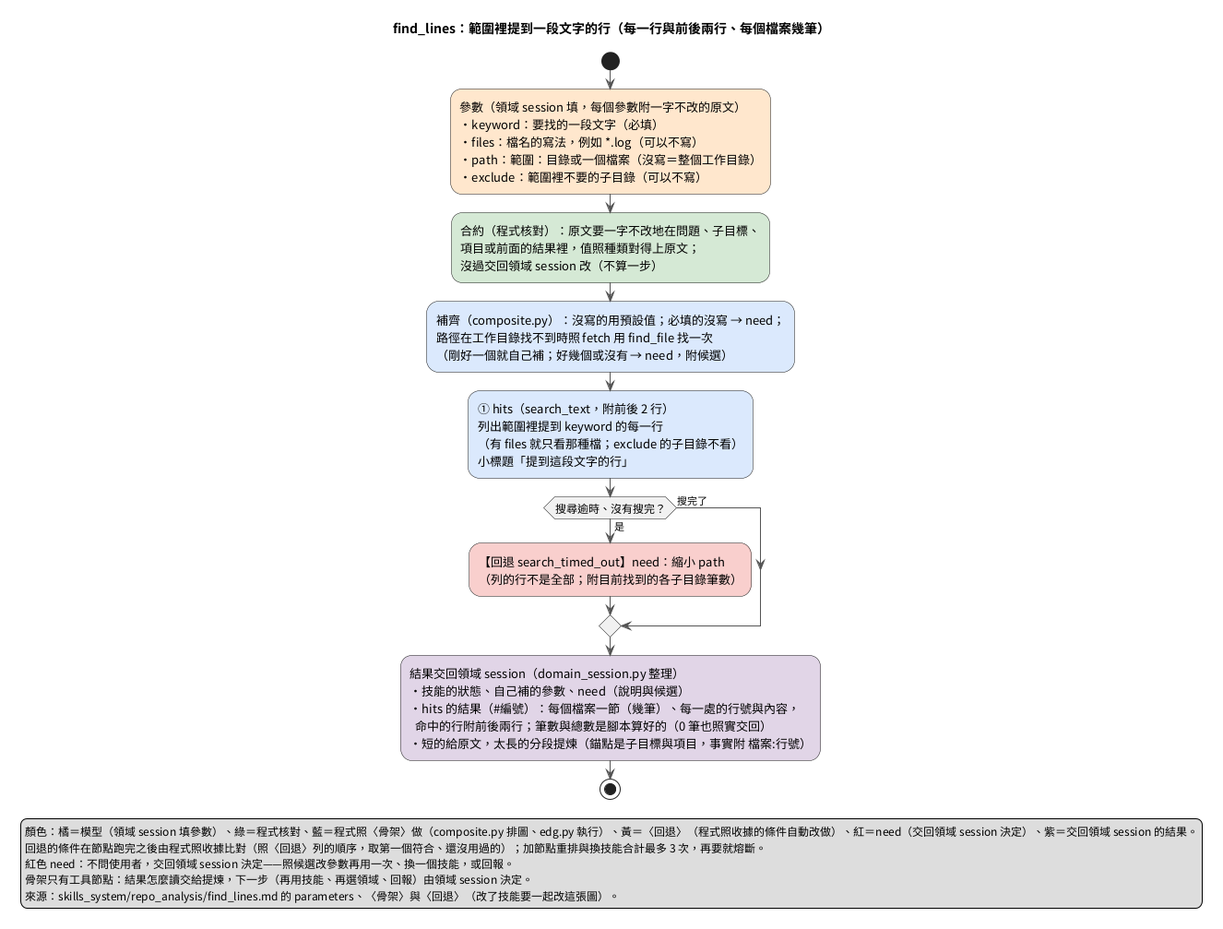
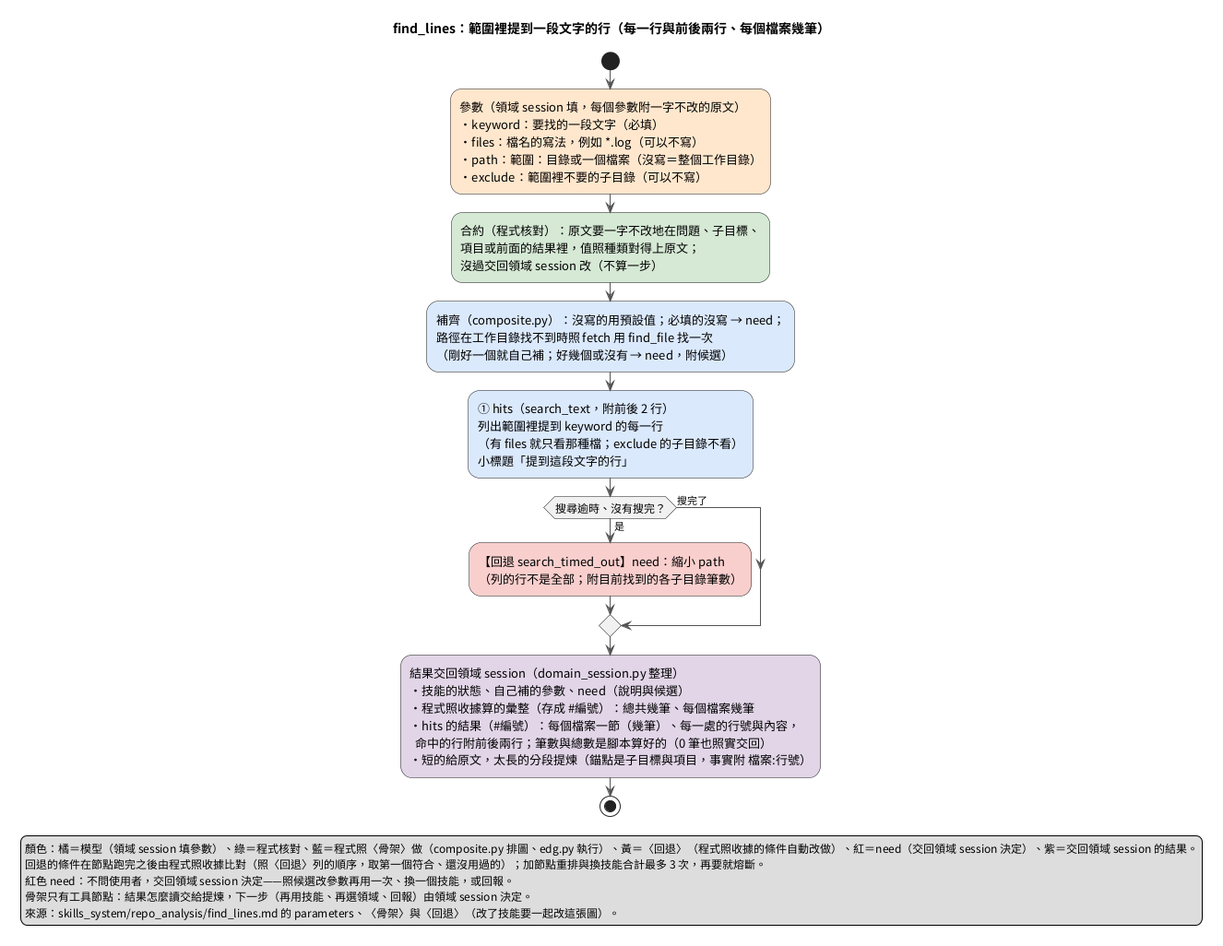
Update documentation for the 6th round of user feedback and structural changes
- Added details about the user's approval of the B approach and the structuralization of tasks and responses.
- Documented the process for attaching original quotes to assigned tasks and ensuring the completeness of responses.
- Updated the architecture explanation and diagrams to reflect the latest changes.
- Included the status of ongoing comparisons and next steps for user commitment.

Changed region(s): [[0.0, 0.0924, 0.9894, 0.9851], [0.402, 0.0, 0.6802, 0.0616]]

diff --git a/doc/架構說明.md b/doc/架構說明.md
@@ -250,8 +250,8 @@ web_console.py    → web_app/server.py 的 main()                   （python3 
 | `trajectory.py` | 125 | `TrajectoryMixin`：`_next_id`（全域配號）、`_record_trajectory`（每執行一支腳本記一筆、有收據時記摘要、觸發存檔）、起點（/clear）、`/trajectory` 的顯示；同時追加到 `logs/trajectory.jsonl` |
 | `skill_spec.py` | 121 | 技能規格裡給程式看的部分（frontmatter 裡一行 JSON 的 `parameters`、`receipt`、`narrow`，有骨架的技能另有 `topology`、`answers` 與正文的〈骨架〉〈回退〉，`MACHINE_SECTIONS`）：`for_model`（交給模型前拿掉）、`contract`（讀成 dict）、`script`（技能執行的腳本）、`sections`（正文的各節）、`composite`（有骨架的技能讀成 dict）；純函式 |
 | `edg.py` | 654 | 低階執行器（第 15 節；有骨架的技能用它執行工具）：`validate`（檢查圖，只收工具節點）、`Executor`（`start`／`resume`：照圖執行、守門、第 1 級、往上交、存檔；`replan`：回退加節點時換成新的圖，跑過的不重跑，重跑的收據照版本另存）、`ModelFixer`（第 1 級修正的模型呼叫）、`parse`（腳本的 `parse_args`）、`narrowed`／`widened`（核對修正） |
-| `composite.py` | 607 | 有骨架的技能（第 16 節）：`load_domain`（領域的 `SKILLS.md`：說明、〈做法〉、有骨架的技能、工具）、`validate_skill`（規格寫得對不對：只能有工具節點；最後用假的參數排一次圖交給低階的 `validate`）、`_switch_problems`（換技能的對象與參數的對應）、`expand_nodes`（〈骨架〉代入參數排成圖）、`verify_param`（合約：原文與值由程式核對）、`param_sig`（擋一模一樣的參數用）、`Runner`（`run`：補齊參數 `_complete`（預設值、照 `fetch` 查路徑 `_fetch`）→ 交給 `edg.Executor` → 照收據套用回退 `_after`（加節點重排、換技能 `_switch`、交回決定的候選 `_subdirs`）→ 結果 `_end`、每個節點跑過的實例 `_outputs`）；說法在 `prompts/domain/session.md` 的 `reject_*`、`need_*`、`guard_in_skill` |
-| `domain_session.py` | 672 | 領域 session（第 17 節）：`DomainSession`（`start`（問題、子目標、項目、之前幾次的經過）／`resume`（確認關卡接回同一步）／`cancel`；`_loop`：每一輪 state 是 domains／skill／report 之一，技能的次數、回的輪數有上限；`_domains`（選領域、重選的上限）→ `_skills_text`（技能清單：做法、有骨架的技能與參數、工具的那一行與 args 的寫法 `_syntax`、共用的工具）；`_skill`：技能在清單裡就交給它那個技能的參數表單（有骨架的技能列參數 `_param_rows`，工具列 args 的寫法 `_syntax`）→ 下一輪 `_form_turn` 填表單（`schemas.domain_form_schema`；表單的那一輪記在 `forms`，不算在回的輪數裡）：有骨架的技能的參數核對 `_contract`（`composite.verify_param`；原文開頭抄了程式的標題的拿掉再核對 `_LABEL`；沒抄原文、值是預設值的當成沒提到）→ 沒過的只把那幾個參數交回重填一次，還是沒過回到選技能 → `composite.Runner` → `_composite`（狀態、回退、要它決定的事、每個節點的結果 `_shown`），工具的參數拿掉照抄的工具名稱 `_own_args` → 確認關卡 `_wait` 或 `_tool`（`agent._run_tool_once`，`_sub_allowed` 限定能用的工具）；一模一樣的技能＋參數不執行 `_same`；結果太長照舊提煉（`turn._content_for_context(sub=True)`，錨點 `_anchor`）；`_report_state`：回報的核對 `_problems`（`answers.answer_problems`，出處 `_cited`：這個 session 的存檔與它們的收據）、交回修一次；`_report`：程式整理的報告；`_ask`：模型一次（每一輪的決定或表單；不是 JSON、被截斷的重問一次）；`_fit`：對話太長時送出的那一份清掉舊的結果）、`parse_reply`（每一輪的決定）、`parse_form`（表單）、`steps_text`（再交辦的經過、評測的記法用）、`analysis_reports`（領域 session 裡執行的數據分析的報告：原樣附在報告最後）；給模型的字在 `prompts/domain/session.md` |
+| `composite.py` | 732 | 有骨架的技能（第 16 節）：`load_domain`（領域的 `SKILLS.md`：說明、〈做法〉、有骨架的技能、工具）、`validate_skill`（規格寫得對不對：只能有工具節點；最後用假的參數排一次圖交給低階的 `validate`）、`_switch_problems`（換技能的對象與參數的對應）、`expand_nodes`（〈骨架〉代入參數排成圖）、`verify_param`（合約：原文與值由程式核對）、`param_sig`（擋一模一樣的參數用）、`Runner`（`run`：補齊參數 `_complete`（預設值、照 `fetch` 查路徑 `_fetch`）→ 交給 `edg.Executor` → 照收據套用回退 `_after`（加節點重排、換技能 `_switch`、交回決定的候選 `_subdirs`）→ 結果 `_end`、每個節點跑過的實例 `_outputs`、照收據算的彙整 `_totals`（`_totals_refs`、`_totals_hits`、`_totals_files`））；說法在 `prompts/domain/session.md` 的 `reject_*`、`need_*`、`guard_in_skill` |
+| `domain_session.py` | 714 | 領域 session（第 17 節）：`DomainSession`（`start`（問題、子目標、項目、之前幾次的經過）／`resume`（確認關卡接回同一步）／`cancel`；`_loop`：每一輪 state 是 domains／skill／report 之一，技能的次數、回的輪數有上限；`_domains`（選領域、重選的上限）→ `_skills_text`（技能清單：做法、有骨架的技能與參數、工具的那一行與 args 的寫法 `_syntax`、共用的工具）；`_skill`：技能在清單裡就交給它那個技能的參數表單（有骨架的技能列參數 `_param_rows`，工具列 args 的寫法 `_syntax`）→ 下一輪 `_form_turn` 填表單（`schemas.domain_form_schema`；表單的那一輪記在 `forms`，不算在回的輪數裡）：有骨架的技能的參數核對 `_contract`（`composite.verify_param`；原文開頭抄了程式的標題的拿掉再核對 `_LABEL`；沒抄原文、值是預設值的當成沒提到）→ 沒過的只把那幾個參數交回重填一次，還是沒過回到選技能 → `composite.Runner` → `_composite`（狀態、回退、要它決定的事、程式算的彙整存成 #編號 `_totals`、每個節點的結果 `_shown`），工具的參數拿掉照抄的工具名稱 `_own_args`、核對寫法 `_args_problem`（整個是 JSON、照抄了〈語法〉的佔位符的交回重填一次；`_syntax_args`）→ 確認關卡 `_wait` 或 `_tool`（`agent._run_tool_once`，`_sub_allowed` 限定能用的工具）；一模一樣的技能＋參數不執行 `_same`；結果太長照舊提煉（`turn._content_for_context(sub=True)`，錨點 `_anchor`）；`_report_state`：回報的核對 `_problems`（`answers.answer_problems`，出處 `_cited`：這個 session 的存檔與它們的收據）、交回修一次；`_report`：程式整理的報告；`_ask`：模型一次（每一輪的決定或表單；不是 JSON、被截斷的重問一次）；`_fit`：對話太長時送出的那一份清掉舊的結果）、`parse_reply`（每一輪的決定）、`parse_form`（表單）、`steps_text`（再交辦的經過、評測的記法用）、`analysis_reports`（領域 session 裡執行的數據分析的報告：原樣附在報告最後）；給模型的字在 `prompts/domain/session.md` |
 | `orchestrator.py` | 409 | 主 session 這一側的交辦（第 17 節）：`load_registry`（`DOMAIN.md` 的領域與共用的工具；領域的工具 `hidden` 與有骨架的技能 `skills` 各屬於哪個領域；每個領域用 `composite.load_domain` 讀，規格有問題的領域不列、它的工具也不擋）、`DomainMixin`（`domain_registry`（檔案改了才重讀）；`domain_block`：system prompt 的「交辦」一節；`skills_index_text`：技能索引拿掉領域的工具（整節都是的連說明都不列）；`_index_lines`：領域 session 技能清單裡工具的那一行（帶那一節的說明）；`domain_gate`：擋主模型直接叫領域的工具與有骨架的技能（寫成腳本 `<名稱>_cmd.py` 的也認），領域 session 裡只放行它選的領域的工具與共用的工具；`run_task`：交辦的核對 `_check_task` → 交給 `domain_session.DomainSession`（之前幾次的經過 `_previous`）→ 報告存成 #編號交回 `_task_finish`；`domain_ask_text`／`answer_domain`／`cancel_domain`：領域 session 停在確認關卡時程式轉問、接回（`/clear` 取消時只照實記下，`follow=False`）；依報告回答：`domain_items`（這一回合要回答的項目）、`domain_reply_check`／`_answer_problems`（用 `answers.answer_problems`；出處 `_cited`：報告，或這一回合自己執行過的工具結果 `_turn_results`；#編號 只收 `_known_ids`）、`domain_render`（照項目排、附出處那一行的原文，原文用 `_quote` 挑））；給模型的字在 `prompts/harness/domain.md` 與 `system_prompt.md` 的 `tasks`、`task_domain` |
 | `answers.py` | 170 | 依報告回答的核對（主對話）與領域 session 回報的核對共用的部分：出處的寫法（`REF`、`CITE`、`ID`）、照收據從檔案讀那幾行（`rows_from_archives`、`line_of`）、`answer_problems`（每一項都有、答到的有出處、出處在該在的地方、數字與名稱在出處那幾段裡（內文寫的 `檔案:行號` 先照收據核對，`_located`）、查不到的寫了原因）、相近的寫法 `near`、顯示用的出處 `ref_label`；說法在 `prompts/harness/domain.md` 的 `why_*` |
 | `compression.py` | 493 | `CompressionMixin`：`_split_for_compression`（保留區切點）、`summarize_messages`（滾動摘要 session）、使用者原話與對話片段存檔（依報告回答的 `answers` 也寫進去）、`compress_context_to_file`、背景壓縮、`ensure_context_budget`（硬水位）、`_load_latest_summary_state`（啟動時接回） |
@@ -428,6 +428,7 @@ Ollama 只重用跟上一次請求相同的開頭，從第一個不同的 token 
 | `EDG_MODEL` | 空＝主模型 | `AGENT_EDG_MODEL` | 第 1 級修正用的模型 |
 | `EDG_FIX_PREDICT` | 600 | — | 第 1 級修正的輸出上限（`num_predict`） |
 | `MID_REPLAN_MAX` | 3 | — | 有骨架的技能一次執行最多重排幾次（回退的加節點與換技能合計），再要就熔斷（`circuit_break`）；加的節點全都跑過＝不收斂，不重排 |
+| `COMPOSITE_TOTALS_LINES` | 120 | — | 有骨架的技能的彙整（`composite.Runner._totals`）每一節最多列幾行（檔案、每個檔案的數量），其他的看各節點的 `#編號`；總數照收據算全部 |
 | `DOMAIN_INDEX_NAME` | `DOMAIN.md` | — | `skills_system/` 底下領域的清單（〈領域〉每個領域一行、〈共用的工具〉；沒有這個檔案＝沒有領域，主對話照舊） |
 | `DOMAIN_RESULT_HEAD` | `[PASS] 🗺 ` | — | 交辦的結果的開頭：程式整理好的，不再提煉（`is_exempt_result`） |
 | `DOMAIN_GOAL_CHARS`／`DOMAIN_ITEM_CHARS`／`DOMAIN_ITEMS_MAX` | 300／120／6 | — | 交辦的子目標、每一項的長度上限與最多幾項（回覆的 schema；領域 session 的參數的值與原文也用 `DOMAIN_GOAL_CHARS`，出處用 `DOMAIN_ITEM_CHARS`） |
@@ -487,9 +488,9 @@ Ollama 只重用跟上一次請求相同的開頭，從第一個不同的 token 
 | 改提煉結尾的下一步建議 | `tool_summary.py` 的 `_followup_guidance`（說法在 `prompts/harness/followup.md`；領域 session 的是 `sub_*`） |
 | 寫新技能的腳本與規格 | `doc/技能撰寫規範.md`（輸出的結構、[ERROR] 的下一步、不讀標準輸入、逾時、狀態標記放最後）；測試放 `evals/skills/<組>_test.py` |
 | 改低階執行器（圖的檢查、守門、第 1 級的核對、重排、存檔） | `agent_core/edg.py`（第 15 節）；修正的說法在 `prompts/edg/`；測試 `evals/edg/selftest.py`，真模型 `evals/edg/run.py` |
-| 改有骨架的技能的執行（合約的核對、補參數、排圖、回退、換技能、交回決定的事、結果） | `agent_core/composite.py`（第 16 節；合約 `verify_param`，執行 `Runner`：`_complete`、`_fetch`、`_after`、`_switch`、`_subdirs`、`_outputs`）；交給領域 session 的寫法在 `domain_session.py` 的 `_composite`；說法在 `prompts/domain/session.md` 的 `reject_*`、`need_*`、`composite_*`；測試 `evals/domain/selftest.py`，真模型 `evals/repo/run.py` |
+| 改有骨架的技能的執行（合約的核對、補參數、排圖、回退、換技能、交回決定的事、結果） | `agent_core/composite.py`（第 16 節；合約 `verify_param`，執行 `Runner`：`_complete`、`_fetch`、`_after`、`_switch`、`_subdirs`、`_outputs`，彙整 `_totals`）；交給領域 session 的寫法在 `domain_session.py` 的 `_composite`、`_totals`；說法在 `prompts/domain/session.md` 的 `reject_*`、`need_*`、`composite_*`；測試 `evals/domain/selftest.py`，真模型 `evals/repo/run.py` |
 | 改交辦（核對、交回的文字、擋哪些工具與有骨架的技能、確認關卡的接回、依報告回答的核對與照項目排、再交辦時的經過） | `agent_core/orchestrator.py`（第 17 節；`run_task`、`_check_task`、`_previous`、`_task_finish`；擋在 `domain_gate`；接回在 `answer_domain`、`cancel_domain`；answers 的核對在 `_answer_problems`、`_cited`，每一項怎麼核對在 `answers.py` 的 `answer_problems`（領域 session 的回報也用），排版在 `domain_render`）；領域與共用的工具在 `skills_system/DOMAIN.md`；說法在 `prompts/harness/domain.md`（交回的 `report`、`answer_hint`、`ask_waiting`；擋 `tool_blocked`、`skill_blocked`；交辦沒過核對的 `err_*`；answers 的 `answers_fix`、`why_*`）與 `system_prompt.md` 的 `tasks`、`task_domain`；Web 的接回在 `web_app/flows.py`（`_await_domain`、`answer_domain_turn`）、`server.py`、`index.html`，CLI 在 `cli.py`；測試 `evals/domain/selftest.py`，真模型 `evals/repo/run.py`，`chat/`、`ops/` 看有沒有退步 |
-| 改領域 session（狀態與上限、選領域、技能清單、參數表單、合約、工具的執行、擋一樣的、回報的核對、報告） | `agent_core/domain_session.py`（第 17 節；`_loop`、`_domains`、`_skills_text`（工具的 args 寫法 `_tool_entries`、`_syntax`）、`_skill`、`_form_turn`、`_param_rows`、`_contract`、`_own_args`、`_same`、`_tool`、`_composite`、`_shown`、`_report_state`、`_problems`、`_report`、`_ask`、`_fit`）；schema 在 `schemas.domain_session_schema`（每一輪的決定）與 `domain_form_schema`（參數表單）；說法在 `prompts/domain/session.md`；上限在 `config.py` 的 `DOMAIN_*`；測試 `evals/domain/selftest.py`，真模型 `evals/repo/run.py` |
+| 改領域 session（狀態與上限、選領域、技能清單、參數表單、合約、工具的執行、擋一樣的、回報的核對、報告） | `agent_core/domain_session.py`（第 17 節；`_loop`、`_domains`、`_skills_text`（工具的 args 寫法 `_tool_entries`、`_syntax`）、`_skill`、`_form_turn`、`_param_rows`、`_contract`、`_own_args`、`_args_problem`、`_same`、`_tool`、`_composite`、`_totals`、`_shown`、`_report_state`、`_problems`、`_report`、`_ask`、`_fit`）；schema 在 `schemas.domain_session_schema`（每一輪的決定）與 `domain_form_schema`（參數表單）；說法在 `prompts/domain/session.md`；上限在 `config.py` 的 `DOMAIN_*`；測試 `evals/domain/selftest.py`，真模型 `evals/repo/run.py` |
 | 新增或改有骨架的技能、領域 | `skills_system/<領域>/SKILLS.md` 一行＋`<領域>/<名稱>.md`（寫法：`doc/技能撰寫規範.md` 1.2：〈骨架〉只有工具節點、〈回退〉的加節點、換技能與交回決定；載入時 `composite.validate_skill`、`_switch_problems` 檢查，寫錯的整個領域不能用；`evals/domain/selftest.py` 跑 repo_analysis 的技能與回退） |
 | 改收據的欄位、錯誤的種類 | 共用層 `skills_system/scripts/_receipt_common.py`、各腳本的 `fail`／`result`、規格的 `receipt`（`evals/skills/receipt_test.py` 核對兩者一致）；harness 這一側在 `dispatch.py` 的 `_exec_script`、`archive.py`、`trajectory.py`（3.8） |
 | 改檢索清單的顯示或判斷規則 | `tool_use_index.py` 的 `_tool_use_index_block` |
@@ -526,7 +527,7 @@ Ollama 只重用跟上一次請求相同的開頭，從第一個不同的 token 
 | `extract/` 提煉 | —（在 `chat/extract_selftest.py`） | `run.py`（已知答案的長輸出：車隊、20 萬字 Log、recall） | 找到幾個、多列幾個、數量、切段 |
 | `repo/` 真實專案 | `selftest.py`（核對的規則、每一題答得出來、人看過的真實回覆維持判斷、`answers.json` 跟快照一致、碰不到真的容器；在 `phase_check` 的離線組） | `run.py`（amr_base 固定在 `6d91797a` 的快照，30 題：五種各 5＋保留組 1；借用 `ops/worker.py` 跑一題，確認關卡一律拒絕、Docker 與調度系統的位址指走；`--rescore` 用存下來的回覆重新計分） | 在真實專案裡找檔案與計數、讀長文件、Python 的定義與呼叫、C++、跨檔案的調查；答案由程式從快照算（`questions.py` → `answers.json`），最後的回覆由程式核對（`checks.py`）。在 `phase_check --model`：每個模型各跑 3 次（`--tag phase1～3`），每一題的通過率與主要組每一次的通過數跟基準 `repo.json` 比；`runs.jsonl` 另記每一次依報告回答的 answers、沒過核對的項目與交回修的次數 |
 | `edg/` 低階執行器 | `selftest.py`（寫好的圖、假的修正模型：檢查圖（只收工具節點）、照收據守門、帶入參數（去重、上限）、第 1 級的核對（多了引號、範圍放大、相近的路徑有好幾個不修、逾時照 narrow）、確認關卡停下來與接回、重排、存檔；14 項；在 `phase_check` 的離線組） | `run.py`（第 1 級修正：一個工具節點故意錯一個參數，工作目錄是真實專案評測的快照；9 題＋保留組 2 題；`--rescore`；在 `phase_check --model`，基準 `edg.json`） | 修得好的有沒有修好（收據的欄位與範圍由程式核對）、修不好的（要換工具、要使用者決定）有沒有往上交 |
-| `domain/` 交辦與領域 session | `selftest.py`（假的主模型與領域 session 的模型、真的有骨架的技能、低階執行器與工具（工作目錄是臨時的小專案），直接驅動 Web 的回合；15 項；在 `phase_check` 的離線組） | —（真模型看 `repo/run.py`；`chat/`、`ops/` 看有沒有退步） | 主 session 的「交辦」一節、技能索引拿掉領域的工具、回覆的 schema（沒有領域時沒有交辦）與解析；回覆的欄位順序（主 session 的 action 最後、AGENT.md 的範例與存回對話的 JSON 也一樣；領域 session 照說明的順序）；擋領域的工具與有骨架的技能（領域 session 裡只能用選的領域的工具與共用的工具）；交辦的核對（子目標是空的、項目數、一樣的再交一次、同一個項目最多 3 次）；領域 session 用工具（選領域、技能清單與 args 的寫法、args 開頭照抄的工具名稱拿掉、存檔 #編號、回報、報告交回、主 session 照項目回答）；評測的記法（`domain_calls`）；有骨架的技能（合約沒過交回改、不算一步，照骨架執行，一模一樣的不執行，回退換技能，路徑有好幾個交回決定，0 筆照實交回）；參數表單（選了技能的下一輪填：有骨架的技能每個參數一欄、工具只有 args；沒過的只把那幾個交回重填，重填還是沒過回到選技能；沒抄原文的預設值當成沒提到、別的值退回；開頭抄了程式的標題的拿掉再核對；表單那一輪不算在輪數裡）；狀態與上限（還沒選領域、回覆不是 JSON、重選領域的上限、技能的上限）；確認關卡（停下來、Web 轉問、不同意交給它接著做）；長的結果照舊提煉（錨點是交辦的子目標）；再交辦帶著上一次的經過；主 session 依報告回答的核對 |
+| `domain/` 交辦與領域 session | `selftest.py`（假的主模型與領域 session 的模型、真的有骨架的技能、低階執行器與工具（工作目錄是臨時的小專案），直接驅動 Web 的回合；17 項；在 `phase_check` 的離線組） | —（真模型看 `repo/run.py`；`chat/`、`ops/` 看有沒有退步） | 主 session 的「交辦」一節、技能索引拿掉領域的工具、回覆的 schema（沒有領域時沒有交辦）與解析；回覆的欄位順序（主 session 的 action 最後、AGENT.md 的範例與存回對話的 JSON 也一樣；領域 session 照說明的順序）；擋領域的工具與有骨架的技能（領域 session 裡只能用選的領域的工具與共用的工具）；交辦的核對（子目標是空的、項目數、一樣的再交一次、同一個項目最多 3 次）；領域 session 用工具（選領域、技能清單與 args 的寫法、args 開頭照抄的工具名稱拿掉、存檔 #編號、回報、報告交回、主 session 照項目回答）；評測的記法（`domain_calls`）；有骨架的技能（合約沒過交回改、不算一步，照骨架執行，一模一樣的不執行，回退換技能，路徑有好幾個交回決定，0 筆照實交回）；參數表單（選了技能的下一輪填：有骨架的技能每個參數一欄、工具只有 args；沒過的只把那幾個交回重填，重填還是沒過回到選技能；沒抄原文的預設值當成沒提到、別的值退回；開頭抄了程式的標題的拿掉再核對；表單那一輪不算在輪數裡；工具的 args 整個寫成 JSON、照抄了〈語法〉的佔位符的交回重填一次，搜尋字裡的中括號不誤擋）；程式照收據算的彙整（AST 的定義、呼叫與 import 每個檔案幾處、總共幾處；名稱符合的檔案扣掉不含的子目錄；存成 #編號，回報的總數照它寫就過核對）；狀態與上限（還沒選領域、回覆不是 JSON、重選領域的上限、技能的上限）；確認關卡（停下來、Web 轉問、不同意交給它接著做）；長的結果照舊提煉（錨點是交辦的子目標）；再交辦帶著上一次的經過；主 session 依報告回答的核對 |
 | `integrity/` 評測的完整性 | `selftest.py` | — | 模型會讀的文字（技能規格、SKILLS.md、prompts、程式回給模型的字）沒有評測世界的名稱（從評測的來源自動取）；`prompts/` 的範本跟程式對得上（用到的每一則都在、填的名稱都有、沒有沒人用的）；讀範本；沒人用的程式（定義了沒人用的函式、類別、常數，import 了沒用的）；文件與架構圖寫的程式名稱在程式裡找得到（`doc_refs`，例外列在 `DOC_ALLOWED`）；階段驗證的維運比對（只跑一部分時跟同一組情境比） |
 
 主對話的情境：外部世界（docker、ROS2、調度系統）用固定的假輸出，存檔工具、`modify_memory` 與本機檔案類技能真的執行；條件（`expect`）
@@ -871,23 +872,31 @@ Ollama 只重用跟上一次請求相同的開頭，從第一個不同的 token 
    與原因）。
 5. 結果：狀態（`done`、`stopped`、`need`、`circuit_break`、`failed`，`STATUS_TEXT`）、說明、`need`（要領域 session 決定的事：哪個參數、說明、候選）、
    最後用的技能 `skill` 與參數、自己補的 `auto_filled`、查路徑的 `fetches`、每一版的圖 `graphs`（為什麼排這一版、狀態、低階的工作）、`edg_jobs`、
-   用過的回退 `fallbacks`、換技能 `switched`，與每個節點跑過的實例 `outputs`（工具、參數、狀態、原因、`#編號`、`why`、`report`；同一份結果只列一次）。
+   用過的回退 `fallbacks`、換技能 `switched`，每個節點跑過的實例 `outputs`（工具、參數、狀態、原因、`#編號`、`why`、`report`；同一份結果只列一次），與照收據算的彙整 `totals`（下面）。
 
 **交給領域 session 的**（`domain_session._composite`）：技能的狀態（`composite_status`）、換技能（`composite_switched`）、加了節點的回退
-（`composite_fallback`）、系統補的參數（`composite_filled`）、要它決定的事與候選（`composite_need`：改了參數再用一次、換一個技能，或回報），接著每個節點
-的結果：小標題、工具與參數、狀態、`#編號`（`output_head`）與原文（門檻內原文，太長的照舊提煉，錨點是交辦的子目標與項目，`_shown`）。程式不另外
-整理總表：每個節點每一個實例的結果就是那支腳本自己的輸出（各自的 `#編號`）——search_text 列每個檔案的筆數與總數（照字面）、code_ast_reader `--refs`
-列每個檔案照語法的處數，跨檔案的總數由領域 session 自己加（要不要加回程式算的彙整，記在〈框架討論紀錄〉第 4 節）。不問使用者：缺的參數、要選哪一個
-路徑、範圍太大，都交回領域 session 決定（它可以先用 `find_file` 找完整的路徑、換參數、換技能或回報）。
+（`composite_fallback`）、系統補的參數（`composite_filled`）、要它決定的事與候選（`composite_need`：改了參數再用一次、換一個技能，或回報）、程式照收據
+算的彙整（`composite_totals`，下面），接著每個節點的結果：小標題、工具與參數、狀態、`#編號`（`output_head`）與原文（門檻內原文，太長的照舊提煉，
+錨點是交辦的子目標與項目，`_shown`）。不問使用者：缺的參數、要選哪一個路徑、範圍太大，都交回領域 session 決定（它可以先用 `find_file` 找完整的路徑、
+換參數、換技能或回報）。
+
+**彙整**（`Runner._totals`，2026-11-24 加回，設計筆記 2.60）：骨架裡寫了 `report` 的節點照收據算的數量，程式算的事實，不是判斷——
+- code_ast_reader `--refs`（`_totals_refs`，一個檔案一個實例）：名稱、定義在哪、呼叫與每一種用到（import、指定、其他用到）每個檔案幾處與總共幾處
+  （好幾種都有時再寫加起來的數）；只在註解或字串裡提到的檔案；AST 沒跑成的檔案（附來源節點搜尋命中的行）；帶入的檔案超過上限、沒看的有幾個。
+- search_text（`_totals_hits`）：每一次搜尋的字與範圍（只看、不含、整個字）、總共幾筆、每個檔案幾筆（收據記全部的檔案；一行算一筆），逾時要寫。
+- find_file（`_totals_files`）：名稱符合的檔案有幾個、是哪些；參數 `exclude` 的子目錄由程式從收據扣掉，寫明扣了幾個。
+- 每一節最多 `COMPOSITE_TOTALS_LINES` 行；每一處的原文不重列（在各節點的結果裡）。領域 session 把它存成 `#編號`（`domain_session._totals`：跟工具的結果
+  同一條路，軌跡、存檔；腳本欄是 `<技能>_totals`），接在技能的狀態後面，放進那一步的 `result_ids`：回報時可以當出處，「總共 N 次」這種總數照它寫
+  就對得上（總數要是原文裡單獨出現的數字）；主 session 依報告回答時也認得這個 `#編號`（這一回合的軌跡）。
 
 進度（`🧱` 開頭）交給領域 session 印出、記進它的 `events.jsonl`。
 **還沒有的**：`depends_on`（硬性前置的技能）現在 `validate_skill` 會擋下來（目前的技能用不到）。
 **存檔**：有骨架的技能沒有自己的工作目錄：結果記在領域 session 那一步的 `composite`（`logs/domain_jobs/<編號>/job.json`：最後用的技能、換技能、回退、
 自己補的參數、要它決定的事、說明、`edg_jobs`、節點的實例與 `#編號`），每一版的圖與工具的執行在 `logs/edg_jobs/`。
-**常數**：`MID_REPLAN_MAX`（第 10 節）、`CANDIDATES_MAX`（`composite.py`）。
+**常數**：`MID_REPLAN_MAX`、`COMPOSITE_TOTALS_LINES`（第 10 節）、`CANDIDATES_MAX`（`composite.py`）。
 **說法**：`prompts/domain/session.md` 的 `form_composite`、`form_fix`、`form_failed`（參數表單，第 17 節）、`reject_*`（合約沒過）、`need_*`（要領域
-session 決定）、`guard_in_skill`、`composite_*`、`output_head`。
-**測試**：`evals/domain/selftest.py`（合約、參數表單與重填、執行、一模一樣的不執行、回退換技能、路徑有好幾個交回決定、0 筆照實交回；第 12 節）。
+session 決定）、`guard_in_skill`、`composite_*`（彙整 `composite_totals`）、`output_head`。
+**測試**：`evals/domain/selftest.py`（合約、參數表單與重填、執行、一模一樣的不執行、回退換技能、路徑有好幾個交回決定、0 筆照實交回、程式算的彙整；第 12 節）。
 
 ---
 
@@ -905,7 +914,8 @@ session 決定）、`guard_in_skill`、`composite_*`、`output_head`。
   domains：選領域 → 程式列出那些領域的技能清單（做法、有骨架的技能與參數、工具與 args 的寫法、共用的工具）
   skill  ：選一個技能（只寫名稱）→ 下一輪填它的參數表單（domain_form_schema；不算輪數）
            → 有骨架的技能：合約核對（沒過的重填一次）→ composite.Runner（補參數、骨架、回退）→ edg.Executor（守門、第 1 級）
-             單步的工具：args → agent._run_tool_once（確認關卡、存檔 #編號、收據）
+                           → 程式照收據算的彙整（存成 #編號）
+             單步的工具：args 的寫法核對（沒過的重填一次）→ agent._run_tool_once（確認關卡、存檔 #編號、收據）
            → 結果太長分段提煉（錨點是子目標與項目）→ 接進對話，再選技能、再選領域或回報
   report ：answers 每一項附出處 → 程式核對（沒過交回修一次）→ 程式整理的報告
 主 session ◀──報告（#編號，不提煉）＋要回答的項目── 照項目填 answers → 程式核對（沒過交回修一次）→ 照項目排給使用者
@@ -970,8 +980,10 @@ session 決定）、`guard_in_skill`、`composite_*`、`output_head`。
    - 有骨架的技能（`form_composite`）：每個參數一欄（quote 一字不改地抄原文、value），表單列出每個參數的名稱、種類、必填或預設、說明（`_param_rows`，
      跟技能清單同一套），沒提到的兩個都寫空的（用預設值）。照合約核對（`_contract` → `composite.verify_param`，第 16 節）：沒過的只把那幾個參數交回
      重填一次（`form_fix`），還是沒過就回到選技能（`form_failed`），都不算一步；過了交給 `composite.Runner` 執行；交給它的是技能的狀態、回退、
-     要它決定的事與每個節點的結果（第 16 節）。
-   - 工具（`form_tool`）：表單只有 `args`（附〈語法〉的參數寫法 `_syntax`）；開頭照抄了工具名稱或腳本路徑的拿掉那一段（`_own_args`）。
+     要它決定的事、程式算的彙整（存成 `#編號`）與每個節點的結果（第 16 節）。
+   - 工具（`form_tool`）：表單只有 `args`——一行參數，跟在指令列上打的一樣、不是 JSON（附〈語法〉的參數寫法 `_syntax`）；開頭照抄了工具名稱或腳本路徑的
+     拿掉那一段（`_own_args`）。整個是 JSON（物件或陣列）、或照抄了〈語法〉的佔位符（`<…>`、`[…]` 原樣出現）的不執行，交回重填一次（`form_fix_tool`，
+     原因 `reject_args_json`、`reject_args_placeholder`），還是一樣就回到選技能（`form_failed`），都不算一步（`_args_problem`；搜尋字裡的中括號不算佔位符）。
      程式照技能名稱找腳本（`skill_spec.script`）直接執行，不用先載入規格：先過確認關卡（`guard_check`；要確認時 `_wait`），再走主對話的 `_run_tool_once`（`_tool`：存檔
      `#編號`、收據、狀態標記的同步；`agent._sub_allowed` 只放行選的領域的工具與共用的工具）。結果照主對話的路（`turn._content_for_context(sub=True)`）：
      門檻內原文，太長的提煉，錨點是交辦的子目標與項目（`_anchor`），事實附 `檔案:行號`，下一步建議只寫它能用的 `result_grep`、`result_view`（3.1）。
@@ -1023,13 +1035,13 @@ session 決定）、`guard_in_skill`、`composite_*`、`output_head`。
 **常數**：`DOMAIN_*`（第 10 節）。
 **說法**：`prompts/harness/domain.md`（交辦的報告 `report`、要回答的項目 `answer_hint`、停在確認關卡 `ask_waiting`、回答之後 `answered`、取消 `cancelled`、
 擋 `tool_blocked` 與 `skill_blocked`、交辦沒過核對的 `err_*`、answers 沒過核對的 `answers_fix`、`answers_problem`、`answers_lead`、`why_*`）；
-`system_prompt.md` 的 `tasks`、`task_domain`；`prompts/domain/session.md`（領域 session 看到的全部：system prompt、第一則訊息、技能清單、每一步的結果、
-擋下與交回改的說明、回報沒過核對的 `answers_fix` 與 `why_ref_unknown`、`retry`、`cut`、`cleared`、提煉的錨點 `anchor`）；提煉的下一步建議
+`system_prompt.md` 的 `tasks`、`task_domain`；`prompts/domain/session.md`（領域 session 看到的全部：system prompt、第一則訊息、技能清單、參數表單（`form_*`、`reject_args_*`）、每一步的結果
+（程式算的彙整 `composite_totals`）、擋下與交回改的說明、回報沒過核對的 `answers_fix` 與 `why_ref_unknown`、`retry`、`cut`、`cleared`、提煉的錨點 `anchor`）；提煉的下一步建議
 `harness/followup.md` 的 `sub_*`、`tool_results.md` 的 `reduced_sub`。
 **評測的 worker**（`evals/domain_calls.py`；`chat/worker.py`、`ops/worker.py` 共用，真實專案評測借用後者）：領域 session 的確認關卡照情境的 guard 回答
 （`settle`：維運同意、主對話不同意，算進 guards）；交辦記一筆（`skill` 是 `domain_session`：子目標、項目、選過的領域、領域 session 的狀態、工作編號、
 步數、輪數、交辦的結果 `#編號`），領域 session 的每一步各一筆（`via` 是 `domain_session`；有骨架的技能附參數的值），有骨架的技能裡執行的工具再各一筆
 （`via` 是那個技能）——情境的「用了哪個工具」條件不用改；交辦沒過核對時只有交辦那一筆（ERROR）；依報告回答的那一步記 answers 與沒過核對的項目
 （`record_answers`），最後的回覆換成程式排好的那一份（`finalize`）。
-**測試**：`evals/domain/selftest.py`（15 項，第 12 節）；真模型看 `evals/repo/run.py`（`phase_check --model` 每個模型各跑 3 次）、`chat/`、`ops/`
+**測試**：`evals/domain/selftest.py`（17 項，第 12 節）；真模型看 `evals/repo/run.py`（`phase_check --model` 每個模型各跑 3 次）、`chat/`、`ops/`
 （凍結的領域：`--tools --model`）。

diff --git a/docs/框架討論紀錄.md b/docs/框架討論紀錄.md
@@ -17,6 +17,7 @@
 | 2026-11-23 | 第 4 輪（定案） | 使用者 commit 了建議 1（18ded9c）；比較的規則照草案（搬到第 2 節）。另外：之後的分析要漸漸找出 e4b、26b 各適合的場景（以後照場景切換模型、加快推論；數字在設計筆記 2.59）；過時的圖與文件排進計畫（盤點與修正在第 5 節）。建議 1 的比較開跑（`f1～f3`） |
 | 2026-11-23 | 建議 1 的比較跑完 | e4b 兩條規則都成立（簡單 31／45，門檻 30）、26b 簡單成立（39）；26b 複雜 17（門檻 19）與規則 2（3 題的原因在框架）不成立：④ 少了彙整（建議 2）、⑤ 主 session 改寫項目與漏寫報告的編號、工具表單的 JSON 寫法（一次）。基準不更新；數字在設計筆記 2.58、2.59，建議在第 4 節，等使用者決定。文件的檢查做成離線測試（使用者同意） |
 | 2026-11-24 | 第 5 輪（定案） | 使用者 commit 了文件的檢查（a833b22）；建議 2 與工具表單的小項照建議做（A）。另外：有些資訊最好結構化地填——交辦改窄項目、回答漏寫編號、args 寫成 JSON，都是模型用自由文字轉述關鍵資訊；⑤ 有遇到問題先解決（放在第 4 步之前）。A 做好、離線測試全過，比較開跑（`g1～g3`）；B（交辦附原話、回答的完整性）的設計在第 4 節，等使用者確認 |
+| 2026-11-24 | 第 6 輪（定案） | 使用者：「可以了」——B 的做法與兩個預設照建議（原話可以從這段對話裡使用者的任何一則訊息抄；完整性先只核對編號與數字），搬到第 2 節；架構說明與架構圖照 A 更新。B 等 A 的比較跑完、使用者 commit 之後開始 |
 
 ## 1. 方向（2026-11-23 使用者決定）
 
@@ -93,8 +94,29 @@
   - 做完照第 4 輪的規則比一次（`g1～g3`）；另外數：彙整被引用的次數、args 寫法被擋的次數與重填之後過了沒。
 - **結構化的方向**：使用者：有些資訊最好要結構化地填——交辦改窄項目、回答漏寫報告的編號、args 寫成 JSON 都是；關鍵資訊是不是不應該改寫。
   → 原則：使用者的原話、報告裡的編號與數字由程式原樣帶到下一步；模型可以加說明（例如把「它」換成名稱），不能用自己的話取代；一定要模型
-  重寫的地方（回答使用者），程式核對沒有漏。具體做法（B）在第 4 節，等確認。
+  重寫的地方（回答使用者），程式核對沒有漏。具體做法（B）在下面第 6 輪（定了）。
 - **⑤ 先解決**：「有遇到問題先解決」——B 放在 A 之後、第 4 步之前。
+
+2026-11-24 第 6 輪，使用者：「可以了」——
+- **B：交辦與回答的結構化**（第 5 輪提的做法；A 的比較跑完、使用者 commit 之後做，放在第 4 步之前）：
+  - 為什麼：建議 1 的比較裡 26b 複雜題的三個框架原因，兩個是主 session 用自己的話轉述了關鍵資訊（⑤）：
+    - 交辦時把項目改窄：問題問「它還合併了哪些限速來源？」，項目寫成「該節點合併的其他限速來源 topic」，領域 session 照項目只回了 topic。
+      程式這邊也有原因：領域 session 的說明寫「只做【子目標】、回答【要回答的項目】；使用者的原始問題只用來對照名稱、路徑、數值」——
+      改寫過的項目成了依據，原話只拿來對名稱。
+    - 依報告回答時漏了編號（doc_task_confirm f2）：領域 session 的報告每一項都寫了規格的編號（評分接受那兩個編號），主 session 的回答把兩個都拿掉，
+      0／3。現在的核對（answers.answer_problems）只看「寫了的」在不在出處裡，不看「報告有的」還在不在。
+    - 現在的狀況：模型寫完交給下一步的地方，有骨架的技能的參數（quote＋value，程式核對原文）、領域 session 的回報（每一項附出處、程式核對）
+      已經是結構化的；交辦的項目與依報告的回答還是自由文字（另外一個是工具的 args，在 A 處理）。
+  - 做法（都在單一迴圈裡，由程式核對；不加層、不加判斷節點）：
+    1. **交辦的項目附原話**：每一項寫成 {quote, item}——quote 從使用者的話一字不改地抄（程式核對，同參數表單的原文核對；預設的原文範圍是這段
+       對話裡使用者的每一則訊息，追問時項目的原話可能在前一則），item 可以把「它」這類指代補上名稱。領域 session 看到的每一項都帶著原話，
+       說明改成「項目的意思以使用者的原話為準」；提煉的錨點也帶原話。程式不用判斷意思有沒有變窄，下一步直接看得到原話。
+    2. **回答的完整性**：主 session 依報告回答時，報告裡這一項的回答寫的編號與數字，回答裡要有（認法用 answers.answer_problems 現在用的同一套、
+       方向反過來）；漏了的交回修一次（跟現在的核對同一個地方：orchestrator.domain_reply_check）。名稱先不核對（寧可漏掉也不誤擋）。
+  - 怎麼比：照第 2 節第 4 輪的規則，每個模型 3 次，跟 A 比（同時看跟 `g1～g3` 比的變化）；另外數：交辦的原話沒過核對的次數、回答因為漏了而
+    交回修的次數與修好了沒、項目的原話跟 item 不一樣的例子。
+- **兩個預設**：交辦項目的原話可以從這段對話裡使用者的任何一則訊息抄（追問時原話可能在前一則）；回答的完整性先只核對編號與數字，名稱先不核對（寧可漏掉也不誤擋）。
+- **架構說明與架構圖**照 A 更新（模組表、常數、第 16、17 節；四張圖與五張有骨架的技能的圖）。
 
 ## 3. 步驟
 
@@ -102,7 +124,7 @@
 |---|---|---|
 | 1 文件 | 刪 `docs/` 的 HTML 與舊的討論紀錄、設計筆記 2.55 的教訓、這份紀錄、CLAUDE.md 的方向 | 做好（2026-11-23） |
 | 2 實作 | 領域 session 的迴圈、骨架拿掉判斷節點、接上主 session、刪掉用不到的程式；完整的離線測試全過；文件照程式改 | 做好（2026-11-23，設計筆記 2.56） |
-| 3 跟 A 比 | 真實專案評測每個模型跑 3 次，跟 A（`pa1～pa3`、`r4m1～r4m3`）比；規則開跑前寫好給使用者確認 | 跑完（2026-11-23，設計筆記 2.57）：26b 規則 1 成立、規則 2 不成立；e4b 規則 1 不成立。三項建議照順序做（第 3 輪）：建議 1 做好（離線，設計筆記 2.58；commit 18ded9c），再比一次（`f1～f3`，規則在第 2 節〈第 4 輪〉）：e4b 都成立、26b 簡單成立，26b 複雜與規則 2 不成立（設計筆記 2.58）。第 5 輪：A（建議 2＋工具表單的寫法）做好、比較中（`g1～g3`，設計筆記 2.60）；B（交辦附原話、回答的完整性）等確認，放在第 4 步之前 |
+| 3 跟 A 比 | 真實專案評測每個模型跑 3 次，跟 A（`pa1～pa3`、`r4m1～r4m3`）比；規則開跑前寫好給使用者確認 | 跑完（2026-11-23，設計筆記 2.57）：26b 規則 1 成立、規則 2 不成立；e4b 規則 1 不成立。三項建議照順序做（第 3 輪）：建議 1 做好（離線，設計筆記 2.58；commit 18ded9c），再比一次（`f1～f3`，規則在第 2 節〈第 4 輪〉）：e4b 都成立、26b 簡單成立，26b 複雜與規則 2 不成立（設計筆記 2.58）。第 5 輪：A（建議 2＋工具表單的寫法）做好、比較中（`g1～g3`，設計筆記 2.60）；B（交辦附原話、回答的完整性）定了（第 6 輪），A 的比較跑完、commit 之後做，放在第 4 步之前 |
 | 4 提煉的改進 | 太長再提煉（現在最多讀 8 段、其他寫「未涵蓋」）、程式碼照 AST 切段（Python 的 ast、C/C++ 照 code_defs 認定義的方式）；一項一項做、一項一項量 | |
 
 **第 2 步的做法**（照 F1～F6 實作時定的細節；設計筆記 2.56、架構說明第 15～17 節）：
@@ -130,24 +152,7 @@
 
 ## 4. 待討論
 
-**B：交辦與回答的結構化（2026-11-24 第 5 輪；等使用者確認）**：
-- 為什麼：建議 1 的比較裡 26b 複雜題的三個框架原因，兩個是主 session 用自己的話轉述了關鍵資訊（⑤）：
-  - 交辦時把項目改窄：問題問「它還合併了哪些限速來源？」，項目寫成「該節點合併的其他限速來源 topic」，領域 session 照項目只回了 topic。
-    程式這邊也有原因：領域 session 的說明寫「只做【子目標】、回答【要回答的項目】；使用者的原始問題只用來對照名稱、路徑、數值」——
-    改寫過的項目成了依據，原話只拿來對名稱。
-  - 依報告回答時漏了編號（doc_task_confirm f2）：領域 session 的報告每一項都寫了規格的編號（評分接受那兩個編號），主 session 的回答把兩個都拿掉，
-    0／3。現在的核對（answers.answer_problems）只看「寫了的」在不在出處裡，不看「報告有的」還在不在。
-  - 現在的狀況：模型寫完交給下一步的地方，有骨架的技能的參數（quote＋value，程式核對原文）、領域 session 的回報（每一項附出處、程式核對）
-    已經是結構化的；交辦的項目與依報告的回答還是自由文字（另外一個是工具的 args，在 A 處理）。
-- 做法（都在單一迴圈裡，由程式核對；不加層、不加判斷節點）：
-  1. **交辦的項目附原話**：每一項寫成 {quote, item}——quote 從使用者的話一字不改地抄（程式核對，同參數表單的原文核對；預設的原文範圍是這段
-     對話裡使用者的每一則訊息，追問時項目的原話可能在前一則），item 可以把「它」這類指代補上名稱。領域 session 看到的每一項都帶著原話，
-     說明改成「項目的意思以使用者的原話為準」；提煉的錨點也帶原話。程式不用判斷意思有沒有變窄，下一步直接看得到原話。
-  2. **回答的完整性**：主 session 依報告回答時，報告裡這一項的回答寫的編號與數字，回答裡要有（認法用 answers.answer_problems 現在用的同一套、
-     方向反過來）；漏了的交回修一次（跟現在的核對同一個地方：orchestrator.domain_reply_check）。名稱先不核對（寧可漏掉也不誤擋）。
-- 怎麼比：照第 2 節第 4 輪的規則，每個模型 3 次，跟 A 比（同時看跟 `g1～g3` 比的變化）；另外數：交辦的原話沒過核對的次數、回答因為漏了而
-  交回修的次數與修好了沒、項目的原話跟 item 不一樣的例子。
-- 先不做：工具的參數也做成每個參數一欄（程式從規格產生欄位、組成指令列）。規格的 `parameters` 現在只列主要的參數（find_file 只有 keyword、
+**工具的參數也做成每個參數一欄？**（2026-11-24 第 5 輪，先不做）：程式從規格產生欄位、組成指令列。規格的 `parameters` 現在只列主要的參數（find_file 只有 keyword、
   path，沒有 `--type`、`--all-dirs`），view_file 有 3 種寫法，凍結的領域的工具也要改規格；A 做完數格式錯誤還剩多少再決定。
 
 **建議 1 的比較：e4b 成立、26b 的複雜不成立（2026-11-23；數字在設計筆記 2.58、2.59）**：
@@ -285,4 +290,12 @@
   `prompts/domain/session.md`（`form_tool` 寫明不是 JSON、`form_fix_tool`、`reject_args_*`、`composite_totals`）；`evals/domain/selftest.py` 15 → 17 項；
   用建議 1 的比較的紀錄（cnt_hw_params f1）在暫存區算一次彙整：「呼叫：總共 42 次（5 個檔案）」，每個檔案 28、3、6、3、2，跟答案一樣。
 - **等使用者決定**：B 的做法（第 4 節）；A 的比較結果（跑完後）。
+
+### 2026-11-24 第 6 輪：B 定案、文件照 A 更新
+- **使用者**：「可以了」（B 的做法與兩個預設、更新架構說明與架構圖）。
+- **做的**：B 搬到第 2 節；比較在跑（不改程式），先照 A 改文件——架構說明（`composite.py`、`domain_session.py` 的模組表與行數、常數
+  `COMPOSITE_TOTALS_LINES`、要改什麼的兩列、第 16 節〈彙整〉、第 17 節的流程與工具表單、測試 17 項）、四張圖（架構、狀態轉移、從問題到答案、
+  prompts 與流程的對應）與五張有骨架的技能的圖（count_in_scope、py_usage、find_lines、cpp_symbol、config_trace；本機 PlantUML 重畫、看過 PNG）、
+  `doc/README.md`。
+- **接下來**：A 的比較跑完 → 照規則判讀、逐題看沒過的、場景表（設計筆記 2.59、2.60）→ 整份計畫的狀態表、請使用者 commit → B。
 

diff --git a/doc/README.md b/doc/README.md
@@ -4,7 +4,7 @@
 |---|---|---|
 | [架構說明](架構說明.md) | 想看懂或修改程式的人 | `agent_core/`、`web_app/` 由哪幾個模組組成、其他資料夾（§4.3）、兩種上下文模式、一回合怎麼跑、工具回傳管線、執行前關卡、給程式讀的收據（3.8）、狀態與持久化、CLI／Web 對照、常數、「要改什麼看哪裡」、評測（§12）、凍結的工具（§14）、單一迴圈（§15～§17，§15 開頭是從問題到答案的流程圖）：低階執行器（照收據執行工具節點的圖、第 1 級修正）、有骨架的技能（領域與技能的規格、合約、骨架、回退、need 交回領域 session）、交辦與領域 session（選領域、一次用一個技能、太長的結果提煉、回報的核對、依報告回答的核對與照項目排、帶著上一次的經過再交） |
 | [架構說明 §13](架構說明.md#13-數據分析agent_coreanalysis_jobpy全部由程式做2026-11-17-起凍結第-14-節) | 想看懂或修改數據解析的人 | 全部由程式做的流程（事實 → 重要的時間點與重點 → 報告）、模組（含數據技能的共用層 `_ros2_data_common.py`）、主對話回答的核對、產物存在哪裡、常數、要改什麼看哪裡、報告的範例 |
-| [設計筆記與已知限制](設計筆記與已知限制.md) | 想知道某個機制為什麼長這樣的人 | 每個機制現在的做法、理由與實測數據（主對話的程式把關在 2.12，數據解析在 2.15，工具回傳的提煉在 2.16，持續驗證在 2.17，給模型的字搬進 prompts/ 在 2.22，拿掉的功能在 2.25、2.26；三階層（2026-11-18～23）試過的與教訓在 2.55，單一迴圈（交辦與領域 session，含有骨架的技能、低階執行器、收據、依報告回答的核對、真實專案評測）在 2.56，跟 A 比與參數表單在 2.57、2.58，兩個模型各適合的場景在 2.59；中間空的編號是刪掉的舊紀錄）；完整技能清單（§3，數據技能與 toolkit 的對照在 3.8）；驗證方法；已知限制（§6）；未來方向 |
+| [設計筆記與已知限制](設計筆記與已知限制.md) | 想知道某個機制為什麼長這樣的人 | 每個機制現在的做法、理由與實測數據（主對話的程式把關在 2.12，數據解析在 2.15，工具回傳的提煉在 2.16，持續驗證在 2.17，給模型的字搬進 prompts/ 在 2.22，拿掉的功能在 2.25、2.26；三階層（2026-11-18～23）試過的與教訓在 2.55，單一迴圈（交辦與領域 session，含有骨架的技能、低階執行器、收據、依報告回答的核對、真實專案評測）在 2.56，跟 A 比與參數表單在 2.57、2.58，兩個模型各適合的場景在 2.59，彙整加回與工具表單的寫法在 2.60；中間空的編號是刪掉的舊紀錄）；完整技能清單（§3，數據技能與 toolkit 的對照在 3.8）；驗證方法；已知限制（§6）；未來方向 |
 | [技能撰寫規範](技能撰寫規範.md) | 寫技能、改技能的人 | 規格文件的格式（給程式看的欄位 1.1、有骨架的技能 1.2）；腳本輸出的結構（第一行、章節、截斷的說明、狀態標記放最後；給程式讀的收據 2.1）；[ERROR] 要寫原因與下一步；可以自己用（不讀標準輸入、逾時、不留背景程序）；測試放 `evals/skills/` |
 | [待辦清單](待辦清單.md) | 要決定下一步做什麼的人 | 已記錄、還沒做的：單一迴圈的步驟、每一步看到還沒做的與接下來的方向、架構整合驗證過要沿用的做法、凍結的工具的項目 |
 | [框架討論紀錄](../docs/框架討論紀錄.md) | 參與定框架的人 | 單一迴圈（主 session、領域 session）的方向、已定與待討論的問題、步驟、每一輪的討論紀錄 |
@@ -22,7 +22,7 @@
 |---|---|---|
 | ![架構](images/AI_agent_harness的說明.png) | `diagrams/AI_agent_harness的說明.puml` | 元件與資料流；`vision/`（框選／上傳 → 結構化提取 → `[vision result]`）與使用者介面、SkillAgent、技能、偽技能（result_recall、analysis_run）、一次性 session（提煉、滾動摘要、視覺）、`logs/` 底下各種存檔（含收據 `<存檔>.receipt.json`、領域 session 的 `domain_jobs/` 與低階的 `edg_jobs/`）、確認關卡的範圍；交辦：主 session 把子目標與要回答的項目交給領域 session（`domain_session.py`）→ 程式核對 → 選領域、一次用一個技能（只寫名稱，下一輪填程式給的參數表單；有骨架的技能由 `composite.py` 照骨架與回退、`edg.py` 執行；工具走主 session 同一條路）、太長的結果分段提煉、決定回報或再選 → 報告 #編號交回、停在確認關卡時程式直接問使用者 |
 | ![一回合](images/AI_agent_harness的狀態轉移.png) | `diagrams/AI_agent_harness的狀態轉移.puml` | 一回合的狀態機；`/analyze` 直接指定；確認關卡擋哪些；Dispatch 的偽技能；交辦（5d：核對、交給領域 session、再交辦時帶著上一次的經過、報告存成 #編號交回）、領域 session（5f：每一輪回一個狀態——選領域、用一個技能、回報；選了技能的下一輪填參數表單、有骨架的技能的合約與 need、太長的結果提煉、上限與擋重複、回報的核對）與領域 session 停在確認關卡（5e：程式轉問、接回同一步）；回覆寫到長度上限被截斷的重問（3）；回答前的核對（3c：沒動作卻說做了、依數據分析的報告回答、依交辦的報告回答的 answers，沒過的交回修一次；依交辦的報告回答由程式照項目排、附出處那一行的原文）；附圖時的視覺提取（1b），以及附圖分析在 prompt、壓縮、下一句話裡的位置 |
-| ![從問題到答案](images/從問題到答案的流程.png) | `diagrams/從問題到答案的流程.puml` | 單一迴圈的動態流程（2026-11-23，泳道的活動圖）：使用者 → 主 session 交辦（子目標、要回答的項目）→ 程式核對交辦 → 領域 session 選領域（程式載入這些領域的技能清單）→ 每一輪用一個技能（只寫名稱，下一輪填程式給的參數表單）：有骨架的技能（每個參數一欄、附原文，程式核對、沒過的重填一次；`composite.py` 照〈骨架〉排圖、`edg.py` 執行工具節點、〈回退〉加節點或換技能，缺參數、要縮小範圍時 need 交回領域 session）或工具（確認關卡、存檔 #編號、收據）→ 太長的結果分段提煉（錨點是子目標與項目）→ 看了結果再用技能、再選領域或回報（answers，程式核對）→ 報告存成 #編號交回 → 主 session 照報告一項一項回答（或只帶沒答到的再交辦）→ 程式核對 answers、照項目排好給使用者；會改狀態的工具停下來由程式問使用者；藍＝程式、橘＝模型、綠＝程式核對、黃＝回退、紅＝問使用者、紫＝存檔 |
+| ![從問題到答案](images/從問題到答案的流程.png) | `diagrams/從問題到答案的流程.puml` | 單一迴圈的動態流程（2026-11-23，泳道的活動圖）：使用者 → 主 session 交辦（子目標、要回答的項目）→ 程式核對交辦 → 領域 session 選領域（程式載入這些領域的技能清單）→ 每一輪用一個技能（只寫名稱，下一輪填程式給的參數表單）：有骨架的技能（每個參數一欄、附原文，程式核對、沒過的重填一次；`composite.py` 照〈骨架〉排圖、`edg.py` 執行工具節點、〈回退〉加節點或換技能，缺參數、要縮小範圍時 need 交回領域 session；程式照收據算的彙整存成 #編號）或工具（args 寫成 JSON、照抄佔位符的交回重填；確認關卡、存檔 #編號、收據）→ 太長的結果分段提煉（錨點是子目標與項目）→ 看了結果再用技能、再選領域或回報（answers，程式核對）→ 報告存成 #編號交回 → 主 session 照報告一項一項回答（或只帶沒答到的再交辦）→ 程式核對 answers、照項目排好給使用者；會改狀態的工具停下來由程式問使用者；藍＝程式、橘＝模型、綠＝程式核對、黃＝回退、紅＝問使用者、紫＝存檔 |
 | ![工具回傳管線](images/AI_agent_harness的工具回傳管線.png) | `diagrams/AI_agent_harness的工具回傳管線.puml` | 原文存檔（第一版領域的腳本另外寫收據給程式讀）→ 規格文件、提煉過的、程式整理好的報告（數據分析）直接給原文 → 太長的提煉（程式切段 → 每段一個 worker → 整合，程式核對行號；照收據對得到檔案的事實附 `檔案:行號`、回答把存檔的行號寫成檔案的行號交回修）→ 檢索清單 → result_recall；退路（`/summarize off`、提煉沒成功、重點不比原文短）；領域 session 的結果也走這一套（錨點換成交辦的子目標與項目，下一步建議只寫它能用的 result_grep／result_view）；中段是附圖的影像分析（提取 → 存成 #編號 → 〔附圖分析〕進清單 → 併進訊息），同一套 recall |
 | ![數據分析的流程](images/數據診斷的流程.png) | `diagrams/數據診斷的流程.puml` | 數據分析（事實報告）的完整流程（活動圖）：收到問題（交辦給領域 session 用 analysis_run，或 `/analyze` 直接指定）→ 資料預備與事實（超過 3 分鐘先切；字串裡的 JSON 展開成 Key；程式量全部 Topic 的全部 Key、整理成有編號的事實）→ 重點（程式照規則寫：每個重要的時間點一則）→ 報告（交辦時原樣附在領域 session 的報告裡）→ 主對話依報告回答與程式的核對（之後的回合也核對；要細看再交辦）；藍＝程式、橘＝模型、綠＝程式核對，底部是程式做的與模型做的；第九輪的流程圖在 `archive/root_cause_reference/doc/` |
 | ![prompts 與流程的對應](images/prompts與流程的對應.png) | `diagrams/prompts與流程的對應.puml` | 給模型的字都在 `prompts/`：主對話（AGENT.md、context_modes/、Memory.md、harness/，含 `system_prompt.md` 的「交辦」一節、交辦的結果與 answers 沒有通過核對的說明 `domain.md`）與各種獨立 session（summary/、extract/、vision/、低階執行器的第 1 級修正 edg/、領域 session `domain/session.md`；領域 session 的提煉與截斷說明 `followup.md` 的 `sub_*`、`reduced_sub`）各用哪些檔案，誰組 prompt、輸出的 schema（主對話的回覆在有交辦的報告時多 answers、action 一律最後；領域 session 每一輪一個 state：domains／skill／report，選了技能的下一輪填那個技能的參數表單）；`skills_system/` 的 SKILLS.md（拿掉領域的工具）、`DOMAIN.md`（給程式讀）、技能規格、領域與有骨架的技能（領域的說明也組進主對話的「交辦」一節；說明、〈什麼時候用〉、參數給領域 session，〈骨架〉〈回退〉給程式）也是模型會讀的；留在程式裡的只有程式的輸出（工具結果、報告、[ERROR]）與程式認的標記；各 session 用哪個模型 |

diff --git a/doc/待辦清單.md b/doc/待辦清單.md
@@ -10,7 +10,7 @@
 |---|---|---|
 | 1 文件 | 刪掉三階層的構想 HTML 與舊的討論紀錄、設計筆記留教訓（2.55）、新的討論紀錄、CLAUDE.md 的方向 | ✅ 2026-11-23 |
 | 2 實作 | 領域 session 的迴圈（`domain_session.py`）、有骨架的技能拿掉判斷節點（`composite.py`）、主 session 的交辦（`orchestrator.py`）、刪掉中階、子工作階段與決策圖；離線測試全過；文件照程式改 | ✅ 2026-11-23（設計筆記 2.56） |
-| 3 跟 A 比 | 真實專案評測每個模型跑 3 次，跟三階層的 A（`pa1～pa3`、`r4m1～r4m3`）比；規則開跑前寫好給使用者確認 | 跑完（2026-11-23，設計筆記 2.57）：26b 規則 1 成立、規則 2 不成立；e4b 規則 1 不成立（28／75，門檻 43）。原因與三項建議（填參數改成表單、彙整加回、整合刪掉事實放進第 4 步）在討論紀錄第 4 節；使用者同意照順序做。建議 1（參數表單）做好、離線測試全過（設計筆記 2.58），跟 A 比（`f1～f3`，規則照討論紀錄第 2 節〈第 4 輪〉，簡單、複雜分開）：e4b 都成立（簡單 31／45）、26b 簡單成立（39），26b 複雜 17（門檻 19）與規則 2 不成立（設計筆記 2.58）。2026-11-24 第 5 輪：A（建議 2 的彙整＋工具表單的寫法）做好、比較中（`g1～g3`，設計筆記 2.60）；B（交辦附原話、回答的完整性）的設計在討論紀錄第 4 節，等使用者確認，放在第 4 步之前 |
+| 3 跟 A 比 | 真實專案評測每個模型跑 3 次，跟三階層的 A（`pa1～pa3`、`r4m1～r4m3`）比；規則開跑前寫好給使用者確認 | 跑完（2026-11-23，設計筆記 2.57）：26b 規則 1 成立、規則 2 不成立；e4b 規則 1 不成立（28／75，門檻 43）。原因與三項建議（填參數改成表單、彙整加回、整合刪掉事實放進第 4 步）在討論紀錄第 4 節；使用者同意照順序做。建議 1（參數表單）做好、離線測試全過（設計筆記 2.58），跟 A 比（`f1～f3`，規則照討論紀錄第 2 節〈第 4 輪〉，簡單、複雜分開）：e4b 都成立（簡單 31／45）、26b 簡單成立（39），26b 複雜 17（門檻 19）與規則 2 不成立（設計筆記 2.58）。2026-11-24 第 5 輪：A（建議 2 的彙整＋工具表單的寫法）做好、比較中（`g1～g3`，設計筆記 2.60）；B（交辦附原話、回答的完整性）第 6 輪定了（討論紀錄第 2 節），A 的比較跑完、commit 之後做，放在第 4 步之前 |
 | 4 提煉的改進 | ① 太長再提煉：現在最多讀 8 段、其他寫「未涵蓋」，改成每段都讀、整合放不下就分批整合再整合；② 程式碼照 AST 切段：Python 用 ast（code_ast_reader 已經會列 def／class 的行號範圍）、C/C++ 照 code_defs 認定義的方式，每段是完整的函式或類別；③ 看檔、搜尋、列目錄、找檔案都走同一套 | 第 3 步之後；一項一項做、一項一項量 |
 
 冒煙測試看到的（2026-11-23，各一次，設計筆記 2.56；第 3 步的比較看到同樣的情形，見設計筆記 2.57 與討論紀錄第 4 節）：
@@ -23,7 +23,7 @@
 建議 1 的比較看到的（2026-11-23，設計筆記 2.58；2026-11-24 第 5 輪定了做法，討論紀錄第 2、4 節）：
 - （A，做好）26b 有一次在工具的表單把〈語法〉的佔位符寫成 JSON 物件放進 args，連錯 4 步（180 個題次裡一次）：表單寫明 args 是一行參數、
   不是 JSON，程式擋整個是 JSON 與照抄佔位符的，交回重填一次（設計筆記 2.60）。
-- （B，等確認）主 session 交辦時把項目改窄（問題問的來源，項目寫成來源的 topic），領域 session 照字面回；依報告回答時漏了報告裡的編號：
+- （B，第 6 輪定了，A 之後做）主 session 交辦時把項目改窄（問題問的來源，項目寫成來源的 topic），領域 session 照字面回；依報告回答時漏了報告裡的編號：
   使用者的方向是關鍵資訊要結構化地填、不讓模型改寫——交辦的每一項附使用者的原話（程式核對）、回答的完整性由程式核對（報告裡這一項的編號與
   數字，回答裡要有）。
 - （先不做）工具的參數也做成每個參數一欄：規格的 `parameters` 只列主要的參數、view_file 有好幾種寫法、凍結的領域也要改規格；A 做完數
